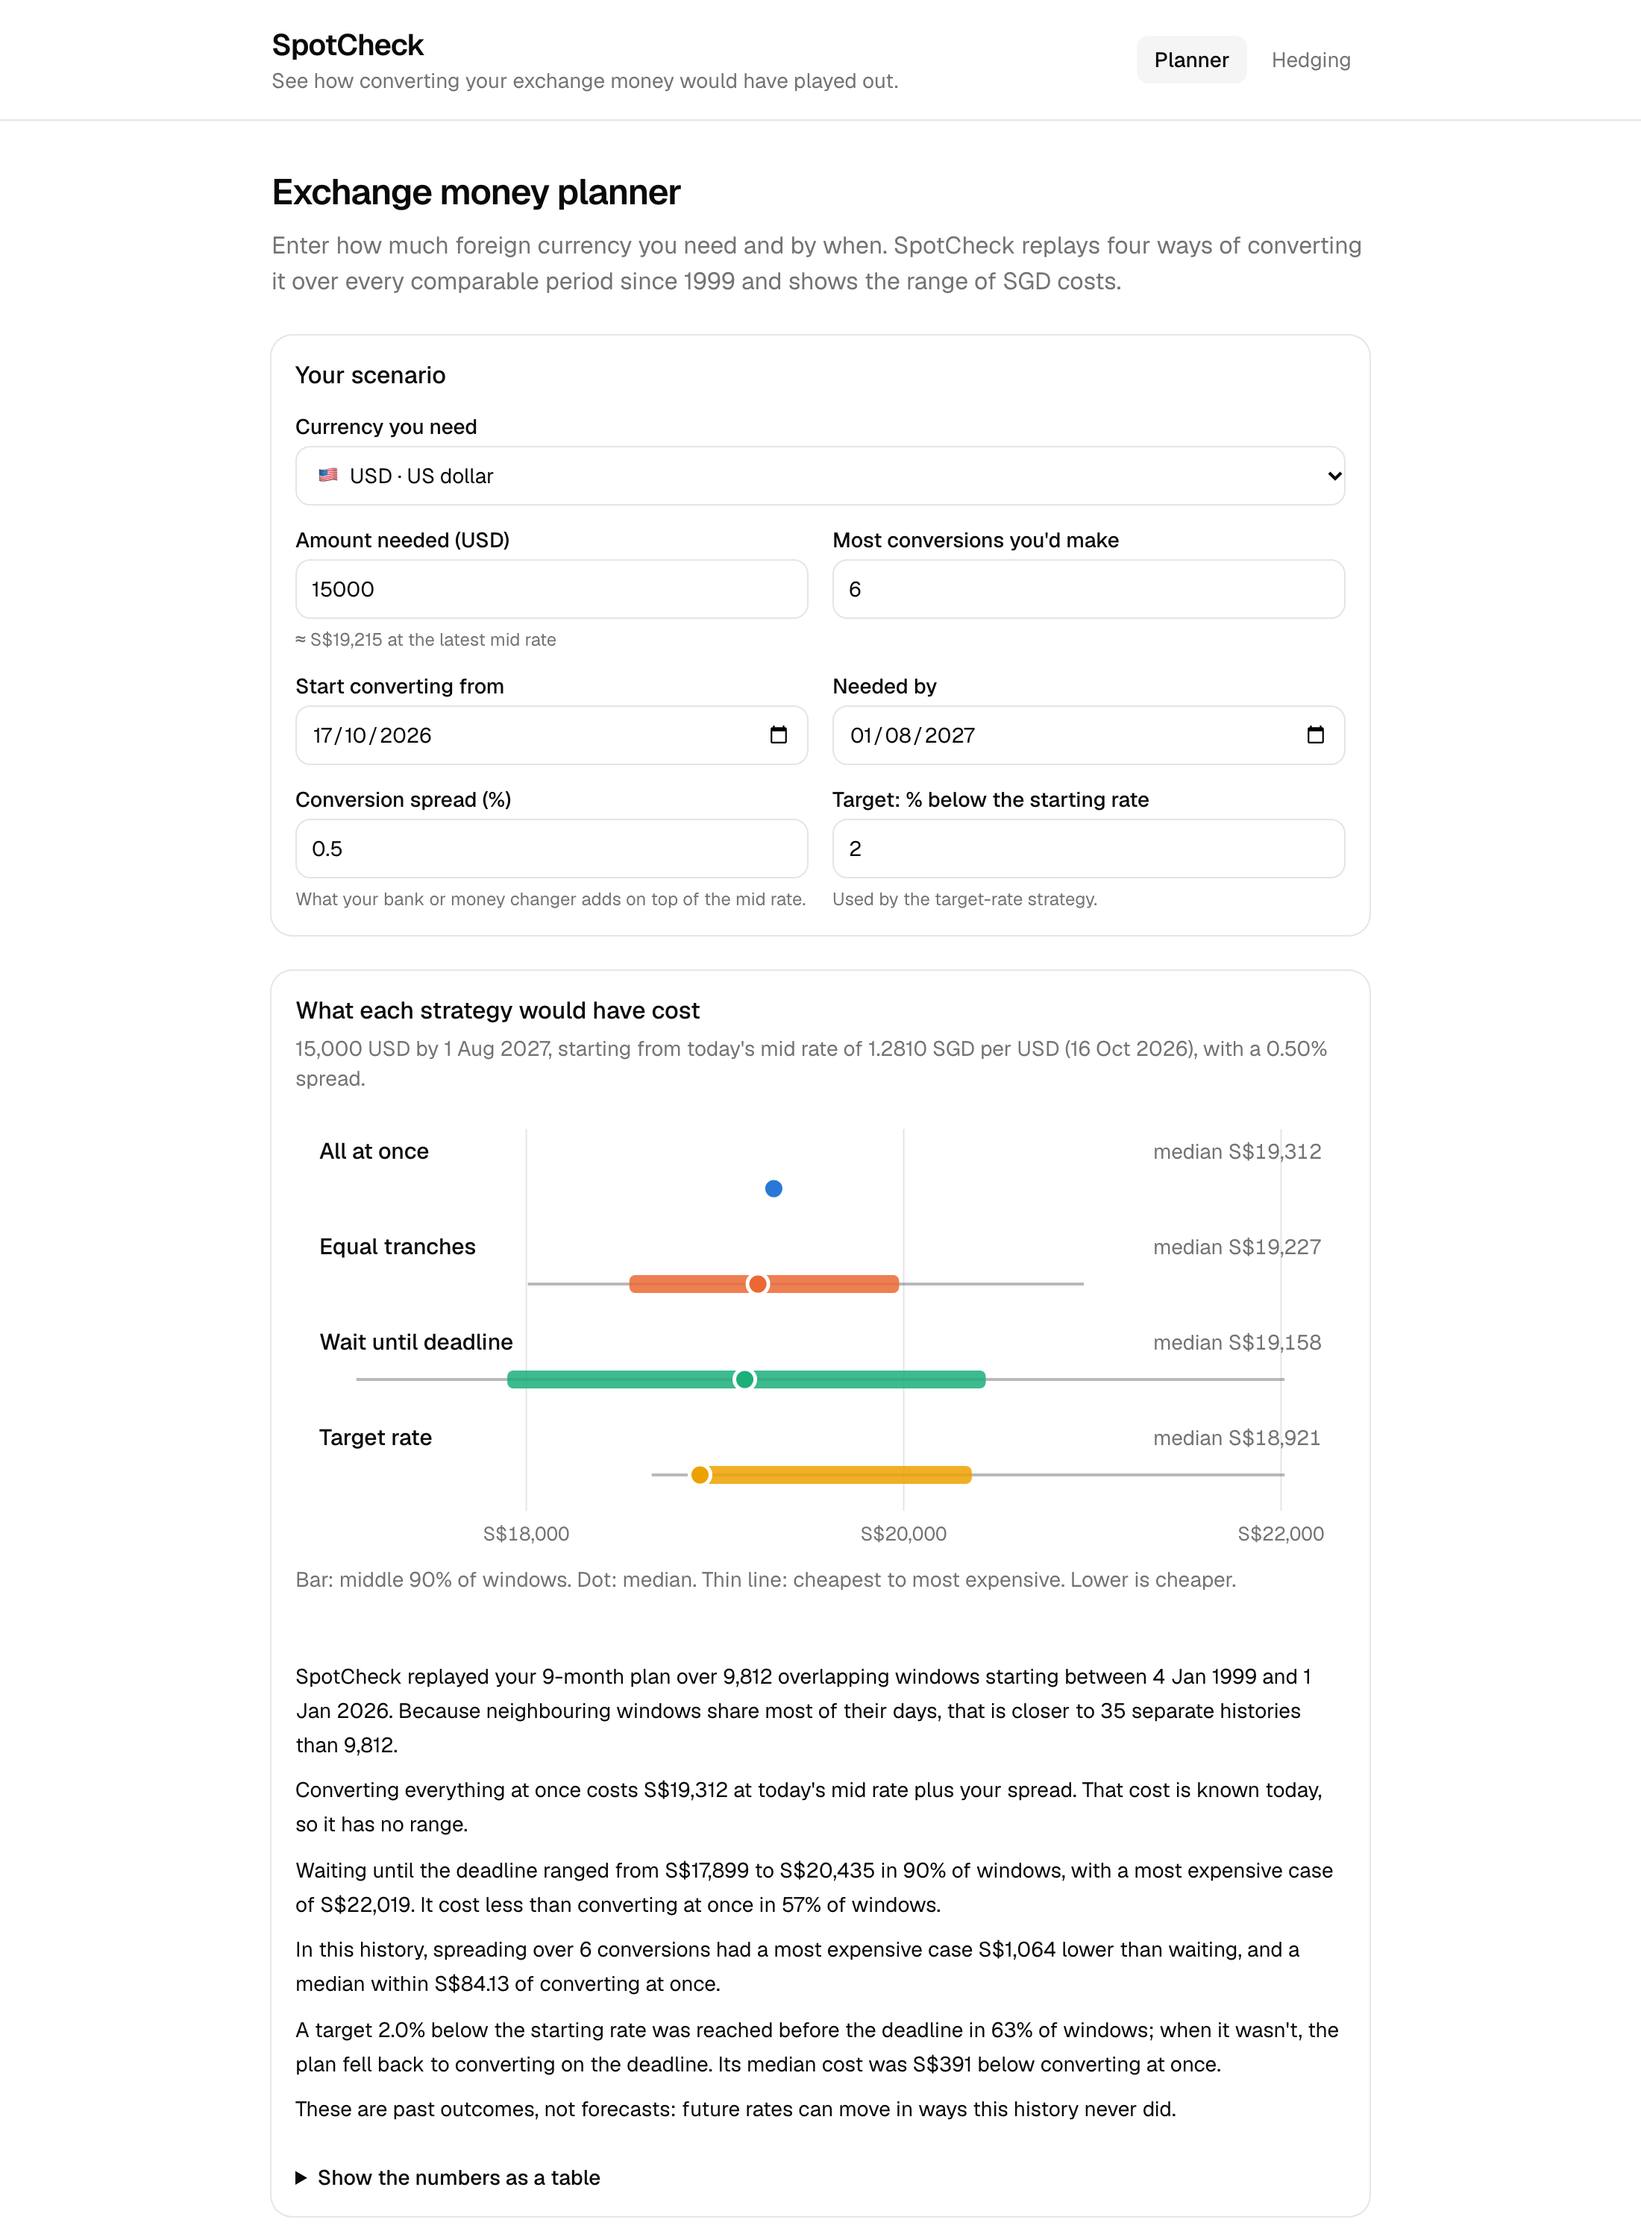
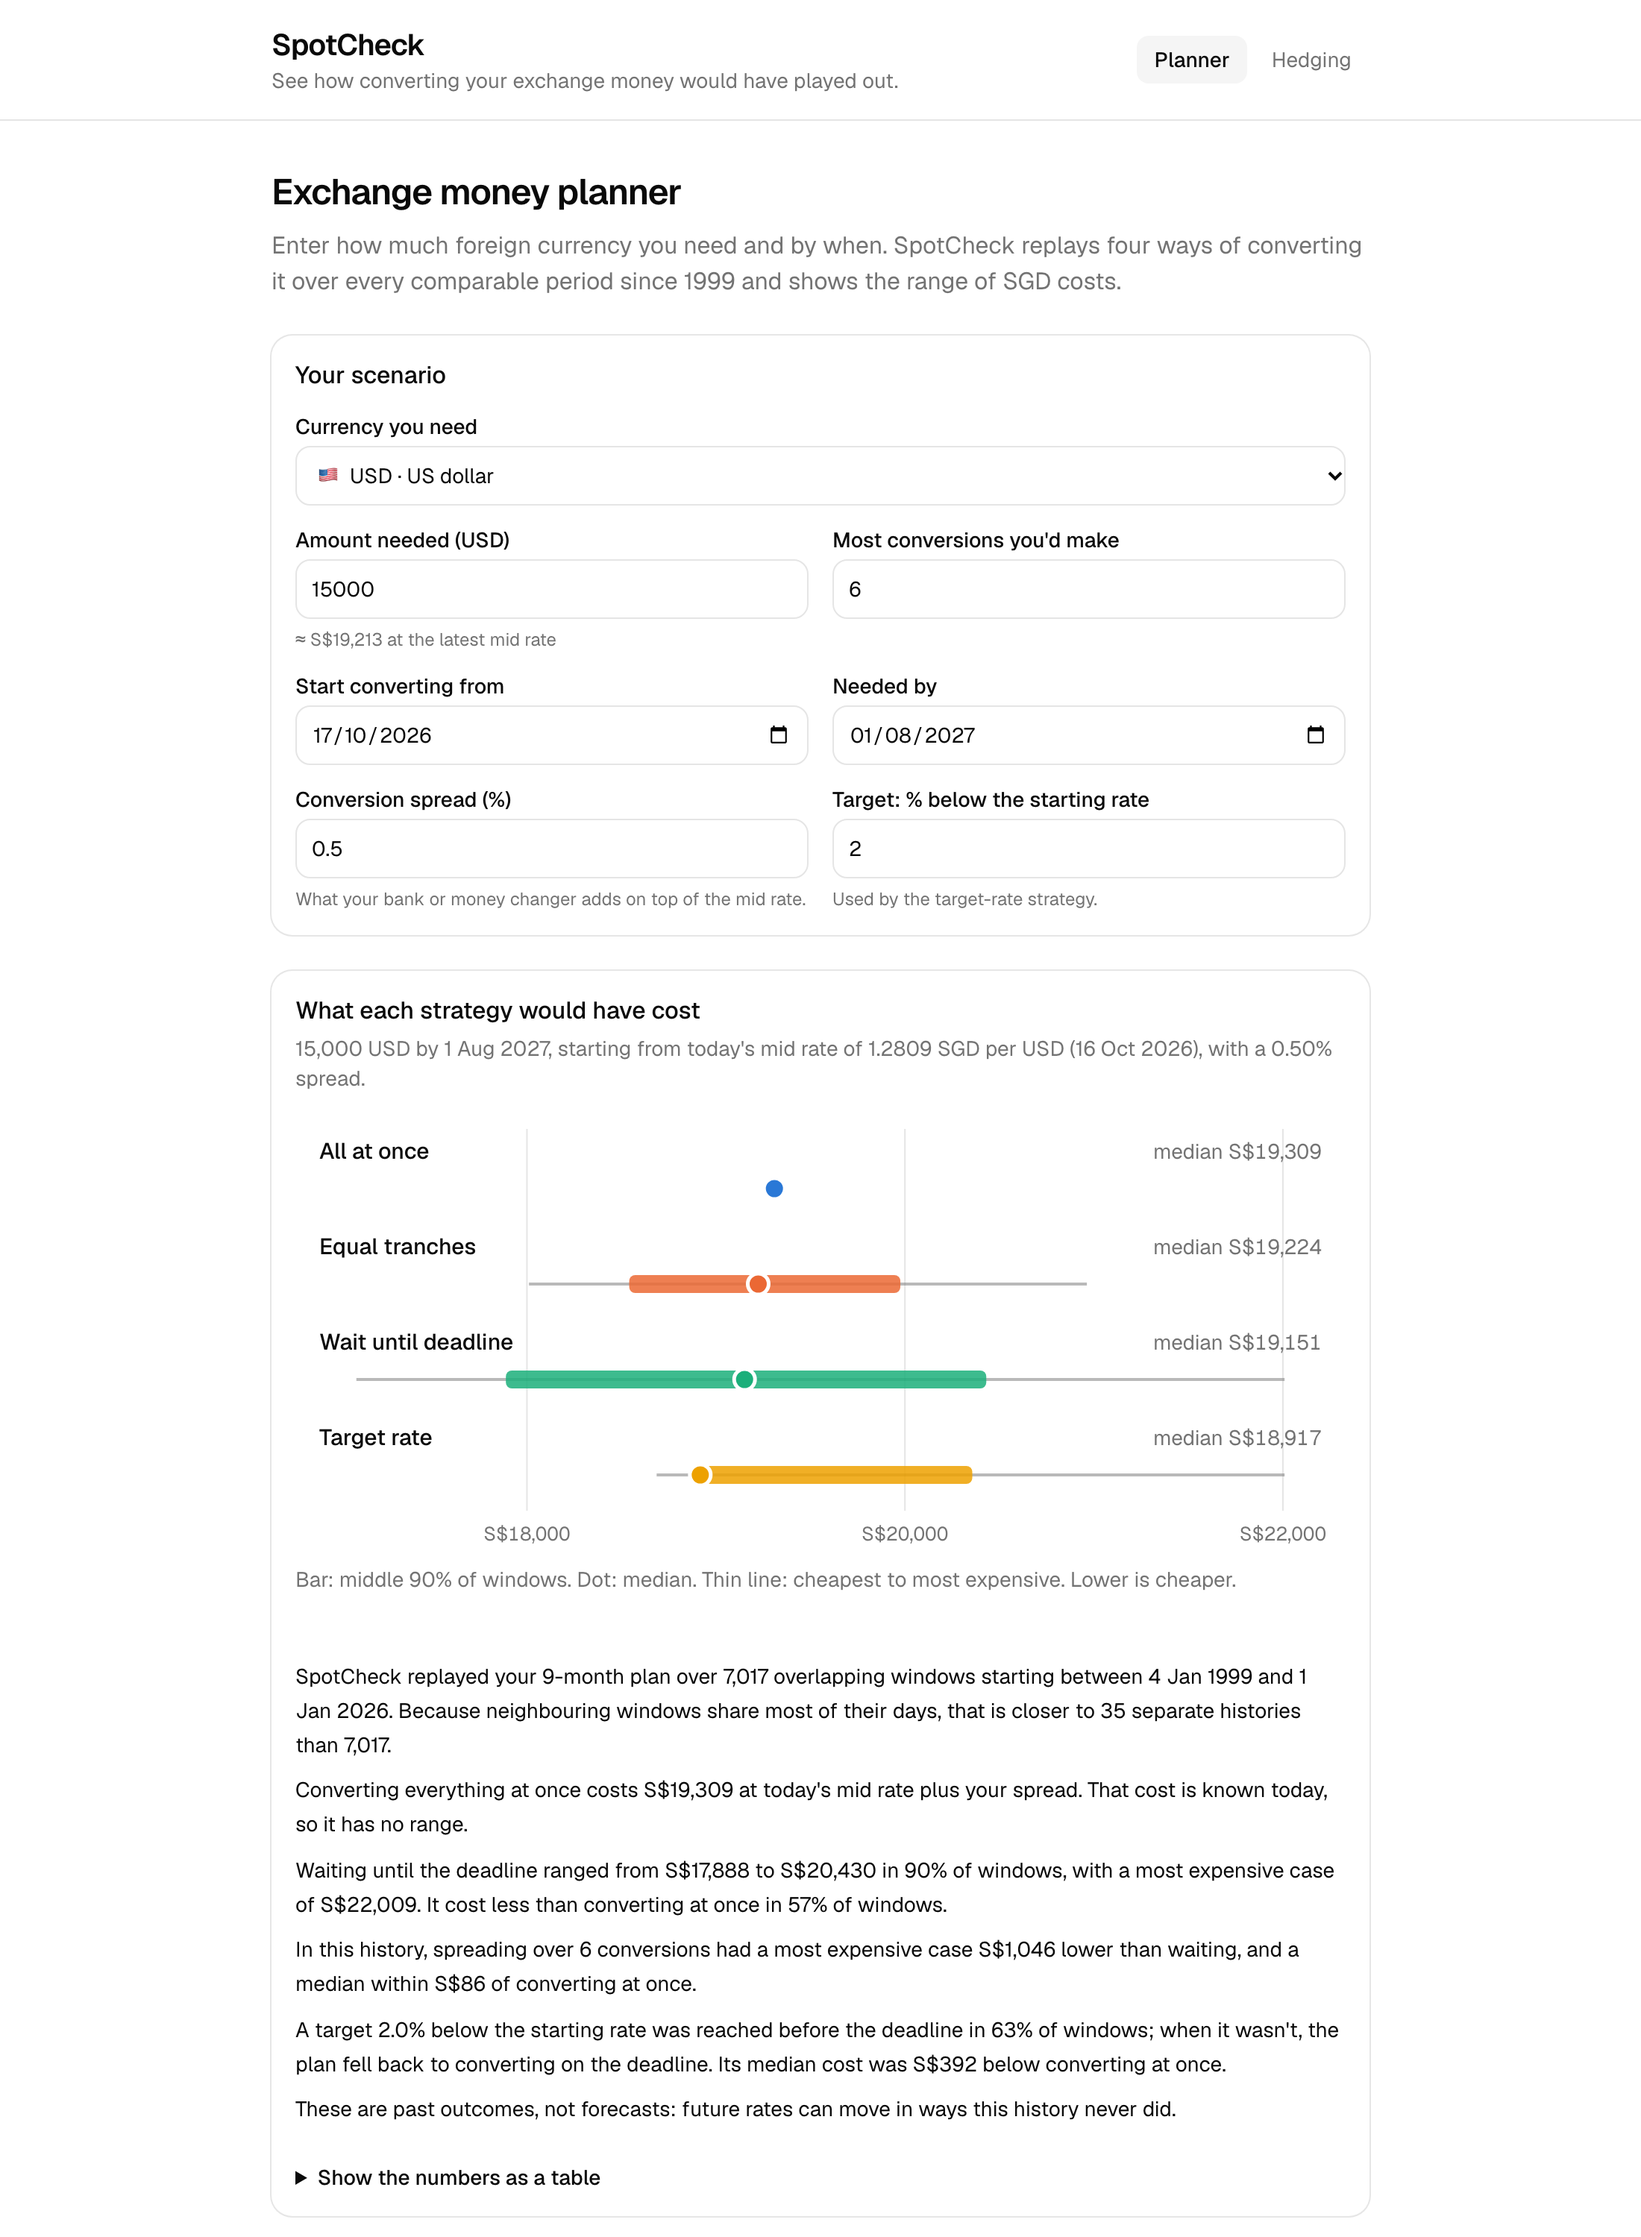
docs: update README, case study and phase 5 notes after review

diff --git a/README.md b/README.md
@@ -10,7 +10,7 @@ SpotCheck is a free web app for students going on exchange who need a lump of fo
 
 ## What it does
 
-- **Planner.** Pick a currency (40 used by NUS, NTU and SMU exchange destinations), amount, start date, deadline, number of conversions and your bank's spread. SpotCheck runs four strategies (all at once, equal tranches, wait until the deadline, target rate with a deadline fallback) over ~10,000 historical windows and shows the median, middle 90% and extremes, plus a plain-English summary and a slider to inspect any single window.
+- **Planner.** Pick a currency (40 used by NUS, NTU and SMU exchange destinations), amount, start date, deadline, number of conversions and your bank's spread. SpotCheck runs four strategies (all at once, equal tranches, wait until the deadline, target rate with a deadline fallback) over every historical window that starts on a trading day (about 7,000 for a 9-month plan) and shows the median, middle 90% and extremes, plus a plain-English summary and a slider to inspect any single window.
 - **Hedging tab.** Today's forward (spot, forward points, the SORA and fed-funds rates behind it), an option pricer with a strike slider, payoff chart and live Greeks, and a historical comparison of unhedged vs forward vs option.
 - **Shareable.** The whole scenario lives in the URL. No accounts, no cookies, no data stored.
 - **Auditable.** Download any historical window as an `.xlsx` whose cost cells are live formulas.
@@ -44,7 +44,7 @@ C  = S₀·e^(−r_f·T)·N(d₁) − K·e^(−r_d·T)·N(d₂)
 d₁ = [ ln(S₀/K) + (r_d − r_f + σ²/2)·T ] / (σ√T),   d₂ = d₁ − σ√T
 ```
 
-σ is the realised volatility of daily log returns over the 60 or 90 observations **before** the pricing date (user-overridable). The normal CDF is Hart's double-precision approximation.
+σ is the realised volatility of log returns between consecutive trading observations over the 60 or 90 trading days **before** the pricing date, annualised with √252 (user-overridable). The normal CDF is Hart's double-precision approximation.
 
 **No look-ahead.** Decisions on day _d_ only see data up to _d_: `rateAsOf` for decisions, `rateOn` for trades, volatility and rates from before _d_. Tests alter every value after _d_ and assert nothing decided by _d_ changes.
 
@@ -72,7 +72,7 @@ Requires Node.js 24.2 or later.
 
 ## Architecture
 
-A daily GitHub Actions job fetches new data, validates it, and commits JSON files to `data/`. The site is a Next.js static export on Cloudflare Pages; the browser loads one currency's history (~95 KB gzipped) and runs the engine in a Web Worker. There is no server, no database and no secret outside GitHub Actions.
+A daily GitHub Actions job fetches new data, validates it, and commits JSON files to `data/`. The site is a Next.js static export on Cloudflare Pages; the browser loads one currency's history (~70 KB gzipped) and runs the engine in a Web Worker. There is no server, no database and no secret outside GitHub Actions.
 
 ```
 Frankfurter / MAS / FRED → scripts/fetch (daily, validated) → data/*.json → static site → engine in the browser

diff --git a/docs/case-study.md b/docs/case-study.md
@@ -8,7 +8,7 @@ SpotCheck answers a better question: _how would each of those approaches have pl
 
 ## What I built
 
-- A **planner** that replays four strategies over ~10,000 historical windows for any of 40 currencies, with a distribution chart, a generated summary and a window-by-window explorer.
+- A **planner** that replays four strategies over every historical window starting on a trading day (about 7,000 for a 9-month plan) for any of 40 currencies, with a distribution chart, a generated summary and a window-by-window explorer.
 - A **hedging tab** that prices forwards (covered interest parity) and options (Garman-Kohlhagen) for the same scenario, with live Greeks, and compares hedged and unhedged outcomes historically.
 - A **data pipeline** that keeps 40 FX series, daily SORA and the US fed funds rate up to date with a daily GitHub Actions job, validated before every commit.
 
@@ -20,7 +20,11 @@ The site is static (no server, no accounts, no cookies) and costs nothing to run
 
 **Look-ahead bias.** Every decision on day _d_ may only use data up to _d_. The engine makes this structural: `rateAsOf` (on or before) for decisions and `rateOn` (next available) for trades. Option volatility comes from the observations strictly before the pricing date, and the forward's rates from the window ending on it. Tests alter every value after _d_ and assert that nothing decided by _d_ changes.
 
-**Overlapping windows.** 10,000 windows that start a day apart are not 10,000 independent experiments. The summary says how many non-overlapping windows the history really contains (about 35 for a 9-month plan), and the methodology says the percentages describe one history, not probabilities.
+**Overlapping windows.** 7,000 windows that start a day apart are not 7,000 independent experiments. The summary says how many non-overlapping windows the history really contains (about 35 for a 9-month plan), and the methodology says the percentages describe one history, not probabilities.
+
+## Trading days, and a smoothed source
+
+A review caught that the FX feed included weekend rows: windows started on ~365 days a year and realised volatility was annualised from calendar-day moves. The data now holds trading observations only (validation rejects weekend rows and carried-forward repeats), volatility is annualised with √252, and tests pin all of it down. Fixing it also exposed a subtler issue: Frankfurter's _blended_ rate averages providers that fix at different times, which smooths daily moves. USD/SGD's 60-day realised volatility is 1.8% on the blended feed but 2.7% on the ECB's single fixing for the same days.
 
 ## The SORA back-check
 

diff --git a/docs/phases/week-10-polish/README.md b/docs/phases/week-10-polish/README.md
@@ -26,7 +26,14 @@ Already done in earlier phases: all 40 currencies in the planner (Phase 3), opti
 | Unit tests                 | 150 pass; engine coverage ~99%                                                                                                                                                                            |
 | Playwright                 | 14/14 incl. the `.xlsx` download                                                                                                                                                                          |
 
-Lighthouse was run locally against the static build (gzip, simulated mobile). Re-run it on the live `*.pages.dev` URL after launch.
+Lighthouse was run locally against the static build (gzip, simulated mobile). After the review fixes it scores 94 / 94 for performance and 100 for the rest on both pages. Re-run it on the live `*.pages.dev` URL after launch.
+
+## Fixes after review
+
+- `exceljs` pins `uuid ^8.3.0`, which `npm audit` flags (`uuid <11.1.1`). An npm `overrides` entry forces `uuid ^11.1.1`; ExcelJS only calls `uuid.v4()`, which v11 still provides, and the Excel unit tests and download e2e test pass. `npm audit --omit=dev`: 0 vulnerabilities.
+- `shadcn` moved to devDependencies (Phase 1 branch).
+- ExcelJS is loaded only by `await import("exceljs")` inside the download handler; an e2e test checks no script containing ExcelJS is fetched before the click and one is after.
+- Windows now start on trading days only (~7,000 for a 9-month USD plan).
 
 ## Notes
 
